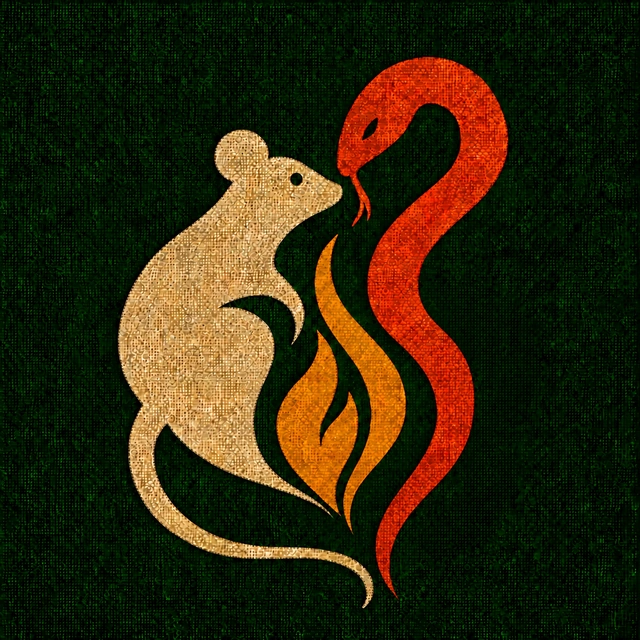
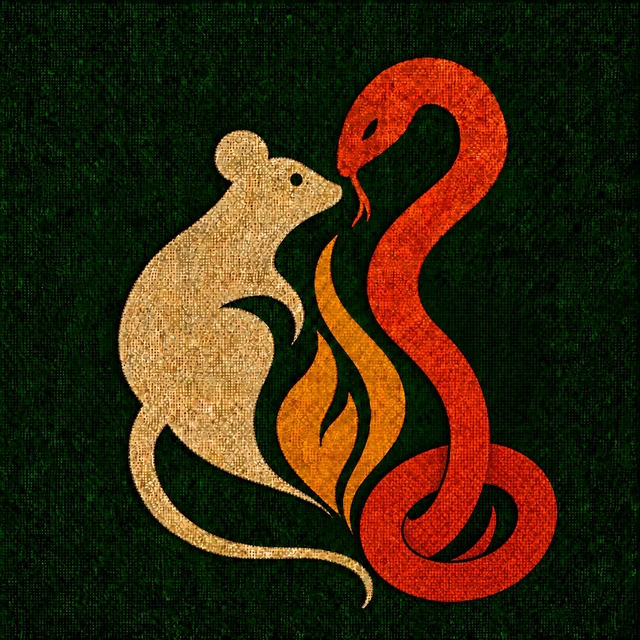
Restore snake mass with a connected coil

diff --git a/frontend/src/components/SlidePuzzleLoader.tsx b/frontend/src/components/SlidePuzzleLoader.tsx
@@ -34,14 +34,14 @@ const THEMES: Record<Theme, { scene: string; tileImg: string; label: string; fra
     // Match the .app-shell ground gradient (index.css) so the loader blends
     // into the sand page instead of reading as a white panel over it.
     scene: 'radial-gradient(circle at 100% 0%, rgba(196,84,50,0.08), transparent 62vw), linear-gradient(180deg, #f2e7d2, #e9dcc3)',
-    tileImg: 'url("/puzzle-flat-dark.webp?v=20260831-tail")',
+    tileImg: 'url("/puzzle-flat-dark.webp?v=20260831-coil")',
     label: '#1e3a2f',
     frame: 'linear-gradient(158deg, #23503d, #122318)',
     frameShadow: 'inset 0 3px 0 rgba(255,255,255,0.06), inset 0 -8px 16px rgba(0,0,0,0.5), 0 34px 44px -12px rgba(20,40,30,0.55)',
   },
   locked: {
     scene: 'radial-gradient(circle at 78% 8%, rgba(196,84,50,0.18), transparent 520px), linear-gradient(180deg, #132e25, #0e1f19)',
-    tileImg: 'url("/puzzle-flat-light.webp?v=20260831-tail")',
+    tileImg: 'url("/puzzle-flat-light.webp?v=20260831-coil")',
     label: '#f2e9db',
     frame: 'linear-gradient(158deg, #ecdfc5, #d7c6a4)',
     frameShadow: 'inset 0 3px 0 rgba(255,248,232,0.35), inset 0 -8px 16px rgba(120,95,60,0.30), 0 34px 48px -12px rgba(0,0,0,0.55)',

diff --git a/frontend/index.html b/frontend/index.html
@@ -2,10 +2,10 @@
 <html lang="en">
   <head>
     <meta charset="UTF-8" />
-    <link rel="icon" href="/favicon.ico?v=20260831-tail" sizes="16x16 32x32 48x48" />
+    <link rel="icon" href="/favicon.ico?v=20260831-coil" sizes="16x16 32x32 48x48" />
     <meta name="viewport" content="width=device-width, initial-scale=1.0, viewport-fit=cover" />
-    <link rel="manifest" href="/manifest.webmanifest?v=20260831-tail" />
-    <link rel="apple-touch-icon" href="/apple-touch-icon.png?v=20260831-tail" />
+    <link rel="manifest" href="/manifest.webmanifest?v=20260831-coil" />
+    <link rel="apple-touch-icon" href="/apple-touch-icon.png?v=20260831-coil" />
     <meta name="theme-color" content="#1e3a2f" />
     <script>
       try {

diff --git a/frontend/src/pages/AdminPage.tsx b/frontend/src/pages/AdminPage.tsx
@@ -2004,7 +2004,7 @@ function BrandingCompareSection() {
   const marks = [
     { src: '/icon-tribalknowledge.webp', caption: 'Before', word: <span className="text-forest-800">TRIBAL KNOWLEDGE</span> },
     {
-      src: '/icon-512.webp?v=20260831-tail',
+      src: '/icon-512.webp?v=20260831-coil',
       caption: 'After',
       word: (
         <>

diff --git a/frontend/src/components/AuthScene.tsx b/frontend/src/components/AuthScene.tsx
@@ -29,7 +29,7 @@ export function AuthScene({
       <div className="w-full max-w-sm">
         <div className="flex flex-col items-center text-center">
           <img
-            src="/icon-512.webp?v=20260831-tail"
+            src="/icon-512.webp?v=20260831-coil"
             alt=""
             width={92}
             height={92}

diff --git a/frontend/src/pages/NotFoundPage.tsx b/frontend/src/pages/NotFoundPage.tsx
@@ -6,7 +6,7 @@ export function NotFoundPage() {
   return (
     <div className="mx-auto flex max-w-md flex-col items-center py-16 text-center sm:py-24">
       <img
-        src="/icon-512.webp?v=20260831-tail"
+        src="/icon-512.webp?v=20260831-coil"
         alt=""
         width={72}
         height={72}

diff --git a/frontend/src/components/ColdStart.tsx b/frontend/src/components/ColdStart.tsx
@@ -17,7 +17,7 @@ export function ColdStart() {
   return (
     <div className="mx-auto flex max-w-md flex-col items-center py-16 text-center sm:py-24">
       <img
-        src="/icon-512.webp?v=20260831-tail"
+        src="/icon-512.webp?v=20260831-coil"
         alt=""
         width={72}
         height={72}

diff --git a/design/icon-concepts/export_snakes_and_rats.py b/design/icon-concepts/export_snakes_and_rats.py
@@ -10,8 +10,8 @@ from PIL import Image, ImageDraw, ImageFilter, ImageOps
 
 
 HERE = Path(__file__).resolve().parent
-DEFAULT_SOURCE = HERE / "snakes-and-rats-final-v2.png"
-DEFAULT_LIGHT_SOURCE = HERE / "snakes-and-rats-final-v2-light.png"
+DEFAULT_SOURCE = HERE / "snakes-and-rats-final-v3-coil.png"
+DEFAULT_LIGHT_SOURCE = HERE / "snakes-and-rats-final-v3-coil-light.png"
 DEFAULT_OUTPUT = HERE.parent.parent / "frontend" / "public"
 
 

diff --git a/design/icon-concepts/README.md b/design/icon-concepts/README.md
@@ -64,3 +64,12 @@ face-to-face composition, woven texture, and Jungle Earth palette stay intact.
 `snakes-and-rats-final-v2-light.png` is the cream-field/forest-rat counterpart
 used by the locked-theme puzzle. Run `export_snakes_and_rats.py` to rebuild all
 production icon and puzzle sizes from the two source files.
+
+## 2026-08-31 connected-coil refinement
+
+The uncoiled v2 corrected the detached shape but left the snake too light
+against the rat. `snakes-and-rats-final-v3-coil.png` restores one broad lower
+coil with a visible, continuous junction to the upright body. Its inward tail
+and the flame remain separated by negative space, so the coil reads as anatomy
+rather than a second C-shaped piece. `snakes-and-rats-final-v3-coil-light.png`
+is the locked-theme puzzle counterpart and the export script now uses v3.
